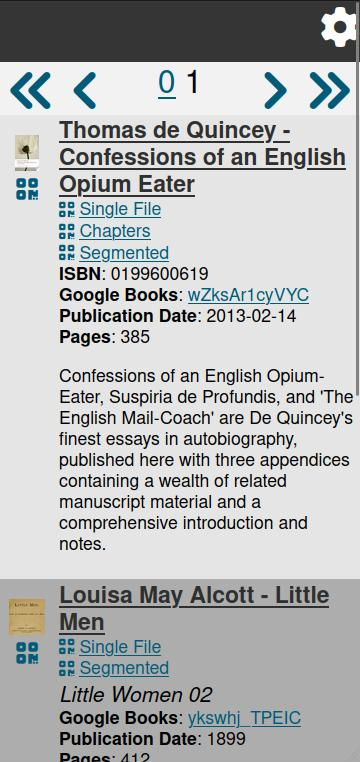
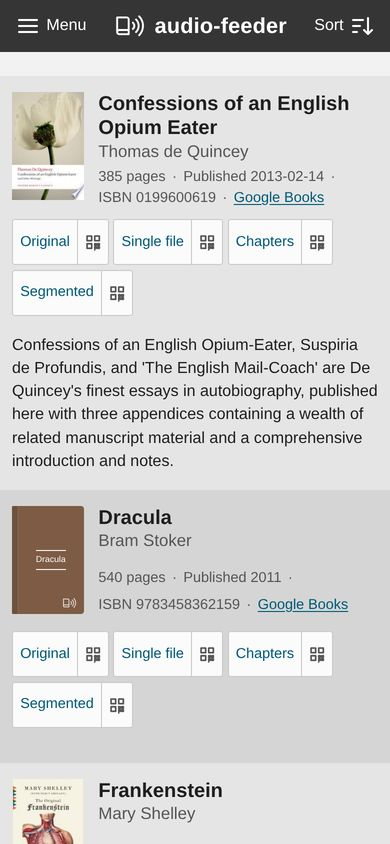
Document the themes, and update the docs for the new book list
Add a page about the themes, with a screenshot of each one, how to
choose one, how to write your own (which custom properties there are,
and that the rest of the markup is more likely to change), and the
site_title and site_logo settings.

Update the rest of the docs for the redesigned book list: the menu
(which was the browse drawer) and its "Appearance" section, the feeds'
buttons and their QR codes, the page jump menu, the new settings, the
entry templates, and the thumbnails. The screenshots are all retaken
from the example books in the tests, and the screenshot of the old
options menu is gone, since nothing used it.

diff --git a/docs/themes.rst b/docs/themes.rst
@@ -1,0 +1,153 @@
+Themes and appearance
+=====================
+
+The book list comes with five themes, which change how it looks without
+changing what's on it. Each person picks their own in the "Appearance" section
+of the menu, and the choice is stored in a cookie, so it applies to that
+browser only: you can use one theme on your computer and another on your phone,
+and other people using the same server keep whatever theme they chose.
+
+The page itself is the same whichever theme is chosen, and each theme is one
+small stylesheet, so switching between them doesn't make the page any slower to
+load.
+
+Built-in themes
+---------------
+
+Classic
+    The default. It keeps the colours and layout of the original book list
+    (the dark bar, the teal links and the alternating grey bands), and switches
+    to a dark version when your system is set to dark mode.
+
+    .. image:: images/screenshots/themes/classic.jpg
+        :width: 800px
+        :alt: The book list in the Classic theme
+
+    .. image:: images/screenshots/themes/classic_dark.jpg
+        :width: 800px
+        :alt: The book list in the Classic theme, in dark mode
+
+Shelf
+    Warm paper, old-style serif titles and italic authors, in a narrower
+    column. It also has a dark mode.
+
+    .. image:: images/screenshots/themes/shelf.jpg
+        :width: 800px
+        :alt: The book list in the Shelf theme
+
+Card catalog
+    Each book is typed up on an index card, filed in a wooden drawer, with the
+    cover clipped to the corner and the feeds as rubber stamps.
+
+    .. image:: images/screenshots/themes/card_catalog.jpg
+        :width: 800px
+        :alt: The book list in the Card catalog theme
+
+Tape deck
+    A dark theme in which each book is a cassette label, the feeds are the
+    deck's keys, and the page numbers and tag counts are on its display.
+
+    .. image:: images/screenshots/themes/tape_deck.jpg
+        :width: 800px
+        :alt: The book list in the Tape deck theme
+
+Plain
+    The browser's own look: serif text, blue links and feeds written as
+    ``[Original]``. It uses the system's colours, so it's light or dark to
+    match.
+
+    .. image:: images/screenshots/themes/plain.jpg
+        :width: 800px
+        :alt: The book list in the Plain theme
+
+.. _custom-themes:
+
+Writing your own theme
+----------------------
+
+A theme is a stylesheet in the ``themes`` directory of the CSS directory
+(``static/css/themes/`` with the default settings), and any stylesheet you put
+there shows up in the "Appearance" menu, named after its file: ``night_bus.css``
+is listed as "Night bus". The list of themes is read when the server starts, so
+restart it after adding one.
+
+A theme's stylesheet is loaded after audio-feeder's own (``main.css``, which is
+also the Classic theme), so it only needs to change what's different. Most of
+the look is set by custom properties on ``:root``, and a theme can be as small
+as a few of them:
+
+.. code-block:: css
+
+    /* static/css/themes/night_bus.css, which shows up as "Night bus" */
+    :root {
+        color-scheme: dark;
+        --paper: #10131c;
+        --surface: #181d2a;
+        --ink: #e9ecf5;
+        --muted: #9099b0;
+        --rule: #2a3146;
+        --accent: #ffcf4a;
+        --accent-ink: #10131c;
+        --bar: #05070c;
+        --entry-background: var(--surface);
+        --entry-background-alt: var(--surface);
+        --font-display: Futura, "Century Gothic", "URW Gothic", sans-serif;
+    }
+
+The custom properties are described at the top of ``main.css``. The main ones
+are:
+
+``--paper``, ``--surface``, ``--ink``, ``--muted`` and ``--rule``
+    The page's background, the background of panels and controls, the text,
+    secondary text, and lines and borders.
+
+``--accent`` and ``--exclude``, each with an ``-ink`` colour for text on top
+    Links and buttons, and the include and exclude toggles in the menu.
+
+``--bar`` and ``--bar-ink``
+    The top bar and the headers of the menu and the page jump menu.
+
+``--entry-background``, ``--entry-background-alt``, ``--entry-padding`` and ``--entry-rule``
+    The bands that books are on, which alternate between the two backgrounds,
+    and the line between books.
+
+``--cloth-saturation``, ``--cloth-lightness`` and ``--cloth-ink``
+    The covers that are drawn for books without one, each in a colour picked
+    from the book's ID.
+
+``--font-body``, ``--font-display`` and ``--display-style``
+    The fonts, and whether the title, author names and a few other flourishes
+    are italic. The built-in themes only use fonts that come with the
+    operating system, so they don't have to download any.
+
+``--measure``, ``--cover-width``, ``--radius`` and ``--target``
+    The widest the page's column gets, the width of the covers, how rounded
+    corners are, and the size of buttons (which is larger on touch screens).
+
+To change the default look for everyone rather than adding a theme, add a
+stylesheet with the ``extra_css_files`` setting (see :doc:`configuration`).
+These are loaded after ``main.css`` and before the chosen theme, so a theme
+still overrides them.
+
+Everything other than the custom properties is part of the page's markup,
+which is more likely to change between releases, so a theme that restyles
+other things may need updating when you upgrade.
+
+The name and the logo
+---------------------
+
+The name in the top bar is "audio-feeder" by default, and can be changed with
+the ``site_title`` setting. Next to it is audio-feeder's logo, which is also
+the favicon; the ``site_logo`` setting replaces both with an image of your own,
+given as a path relative to the static directory or as a URL, and setting it
+to an empty string removes the logo:
+
+.. code-block:: yaml
+
+    site_title: The Listening Room
+    site_logo: images/our-logo.svg
+
+Books without a cover get one drawn by the page, in a colour picked from the
+book's ID, with the book's title and a small copy of audio-feeder's logo on it
+to show that it isn't the book's real cover; "Dracula" in the screenshots above
+has one, drawn in each theme's own style.

diff --git a/docs/configuration.rst b/docs/configuration.rst
@@ -171,7 +171,8 @@ The following locations are relative to ``static_media_path`` on disk and to
 ``cover_cache_path``
     Default: ``images/entry_cover_cache``
 
-    Where book covers and their thumbnails are stored.
+    Where the covers downloaded from metadata sources, and the thumbnails of
+    every book's cover, are stored.
 
 ``qr_cache_path``
     Default: ``images/qr_cache``
@@ -182,15 +183,18 @@ The following locations are relative to ``static_media_path`` on disk and to
 ``site_images_loc``
     Default: ``images/site-images``
 
-    The directory of images used by the site itself, e.g. ``default_cover.svg``,
-    which is shown for books that don't have a cover.
+    The directory of images used by the site itself. The book list doesn't
+    currently use any of them: books that don't have a cover get one drawn by
+    the page instead.
 
 ``css_loc``
     Default: ``css``
 
-    The directory of CSS files. The default stylesheets are copied here from
-    the package the first time the book list is shown after the server
-    starts.
+    The directory of CSS files. The default stylesheets, and the built-in
+    themes in a ``themes`` subdirectory, are copied here from the package the
+    first time the book list is shown after the server starts. Stylesheets
+    that you add to ``themes`` can be chosen like the built-in themes; see
+    :ref:`custom-themes`.
 
 .. _content-paths:
 
@@ -231,11 +235,26 @@ for content are relative to ``media_path``:
 Appearance
 ----------
 
+See :doc:`themes` for how to change the look of the book list.
+
+``site_title``
+    Default: ``audio-feeder``
+
+    The name shown in the top bar of the book list.
+
+``site_logo``
+    Default: ``null``
+
+    The logo shown next to the name in the top bar, which is also the page's
+    favicon: a path relative to the static directory, or a URL. If it isn't
+    set, audio-feeder's own logo is used, and if it's an empty string, there's
+    no logo.
+
 ``base_truncation_point``
     Default: ``500``
 
     Roughly how many characters of a book's description to show in the book
-    list before hiding the rest behind a "Read More" link. The cut is moved
+    list before hiding the rest behind a "more" link. The cut is moved
     forward to the end of the word it falls in, and descriptions that are no
     longer than this are shown in full.
 
@@ -246,14 +265,17 @@ Appearance
     the book list. Covers are scaled down, keeping their aspect ratio, to fit
     within these, and they are never scaled up. A ``0`` or ``null`` means that
     dimension isn't limited. Changing this isn't applied to thumbnails that
-    already exist.
+    already exist. Thumbnails are saved as JPEGs, and the book list shows each
+    book's thumbnail unless its cover is the smaller of the two files, as
+    covers from Google Books often are.
 
 ``extra_css_files``
     Default: ``[]``
 
     A list of additional CSS files to include in the page, as paths relative to
     ``css_loc``. They are included after the default stylesheets, so they can
-    override them.
+    override them, and before the chosen theme, so a theme can override them
+    in turn.
 
 ``disable_default_css``
     Default: ``false``
@@ -294,7 +316,10 @@ found in them, the default is used.
 
     The directory of templates for each entry in the book list, with a
     subdirectory for each type of entry (e.g. ``Book``) containing a template
-    for each field (``name.tpl``, ``author.tpl`` and ``description.tpl``).
+    for each field. Books have ``name.tpl``, ``title.tpl``, ``author.tpl``,
+    ``meta.tpl`` (the line of details under the author) and
+    ``description.tpl``, and any other template in the directory is available
+    to ``list.tpl`` by name.
     If the subdirectory for a type exists, the templates in it are used
     instead of all of the defaults for that type.
 

diff --git a/docs/browsing.rst b/docs/browsing.rst
@@ -3,22 +3,30 @@ Browsing the library
 
 The book list at ``/books`` shows every book in the library, a page at a time,
 with its cover, description and links to its feeds. Two buttons at the top of
-the page control which books are shown and in what order: the menu button at
-the top left opens the browse drawer, for filtering the list, and the button at
-the top right opens the sort menu.
+the page control which books are shown and in what order: "Menu" at the top
+left opens the menu, for filtering the list, and "Sort" at the top right opens
+the sort menu.
 
 Every choice you make in either of them ends up in the page's URL, so you can
 bookmark a filtered view of the library or send a link to one, and the page
 navigation keeps the filters and the sort order as you move between pages.
 
-The browse drawer
------------------
+The menu
+--------
 
-The browse drawer has three sections: the folder tree, a few filters on the
-books' metadata, and the tags. Changes take effect when you click "Apply", and
-"Clear filters" goes back to showing every book. The menu button shows the
-number of filters that are active, counting each included or excluded folder
-or tag separately.
+.. image:: images/screenshots/menu_mobile.jpg
+    :width: 300px
+    :alt: The menu open on a phone
+    :align: right
+
+The menu has three sections for filtering the list: the folder tree, a few
+filters on the books' metadata, and the tags. Changes take effect when you
+click "Apply", and "Clear filters" goes back to showing every book. The menu
+button shows the number of filters that are active, counting each included or
+excluded folder or tag separately.
+
+Its last section, "Appearance", chooses the theme, which is described in
+:doc:`themes`.
 
 When no books match the filters, the page says so, with a link to clear them.
 
@@ -110,12 +118,17 @@ list the first and last three pages and the pages either side of the current
 one, with "…" in place of the rest, e.g. ``0 1 2 … 11 12 13 … 77 78 79``. On a
 phone, only the arrows and the current page are shown.
 
-To get to any other page, use the menu above the list, which lists every page
-with the range of the sort order that it covers. For example, when sorting by
+To get to any other page, use the button next to the page links, which shows
+the range of the current page and opens a list of every page with the range of
+the sort order that it covers. For example, when sorting by
 title, a page might cover "Little M → Little W", meaning its first book's title
 starts with "Little M" and its last book's with "Little W"; each end is just
 long enough to tell it apart from the pages around it. When sorting by date,
 the range leaves out what both ends have in common, e.g. "3 → 17 Mar 2023" or
 "Dec 2022 → Feb 2023".
+
+.. image:: images/screenshots/page_jump.jpg
+    :width: 800px
+    :alt: The list of pages, sorted by title
 
 Pages are numbered from 0.

diff --git a/docs/feeds.rst b/docs/feeds.rst
@@ -1,8 +1,9 @@
 Feeds
 =====
 
-Every book has an RSS feed at ``/rss/<id>.xml``, linked from the book's title
-in the book list, which contains the book's audio files as they are on disk.
+Every book has an RSS feed at ``/rss/<id>.xml``, which contains the book's
+audio files as they are on disk; it's the "Original" button next to each book in
+the book list.
 You can subscribe to it in any podcast app that lets you add a feed by URL.
 
 Rendered feeds
@@ -10,8 +11,8 @@ Rendered feeds
 
 Depending on what metadata is available, ``audio-feeder`` can also generate
 "rendered" feeds for each book, at ``/rss/derived/<id>-<mode>.xml``, which
-contain files made from the originals with ``ffmpeg``. They are linked below
-each book's title in the book list:
+contain files made from the originals with ``ffmpeg``. They are the buttons
+after "Original" in the book list:
 
 Single file
     This feed consists of a single file. If the original directory contains
@@ -46,8 +47,8 @@ QR codes
 
 Each feed has an associated QR code, so that you can browse the list on a
 computer and scan the individual feeds from your phone. Click the QR code icon
-under a book's cover, or next to one of its rendered feeds, to show the code;
-clicking anywhere outside of it or pressing Escape closes it again:
+on a feed's button to show the code; clicking anywhere outside of it or pressing
+Escape closes it again:
 
 .. image:: images/screenshots/list_p0_qr.jpg
     :width: 800px

diff --git a/docs/usage.rst b/docs/usage.rst
@@ -21,7 +21,7 @@ Creating the configuration directory
 
 ``audio-feeder install`` creates a configuration directory with a default
 ``config.yml``, the directories that the server needs and the static files that
-the web page uses (fonts, the default cover image and so on):
+the web page uses (its stylesheets, themes and images):
 
 .. code-block:: console
 
@@ -38,7 +38,6 @@ be created. With the default settings, the result looks like this:
     ├── config.yml
     ├── database/
     └── static/
-        ├── fonts/
         ├── images/
         │   ├── entry_cover_cache/
         │   ├── qr_cache/

diff --git a/docs/index.rst b/docs/index.rst
@@ -9,7 +9,7 @@ can subscribe to each book's feed.
 
 .. image:: images/screenshots/list_entry_p0.jpg
     :width: 800px
-    :alt: The main list interface
+    :alt: The book list
 
 Each book has its own feed containing the files as they are on disk, and
 ``audio-feeder`` can also generate "rendered" feeds from them with ``ffmpeg``:
@@ -35,6 +35,7 @@ want with your phone. See :doc:`feeds` for the details.
    installation
    usage
    browsing
+   themes
    feeds
    configuration
    cli
